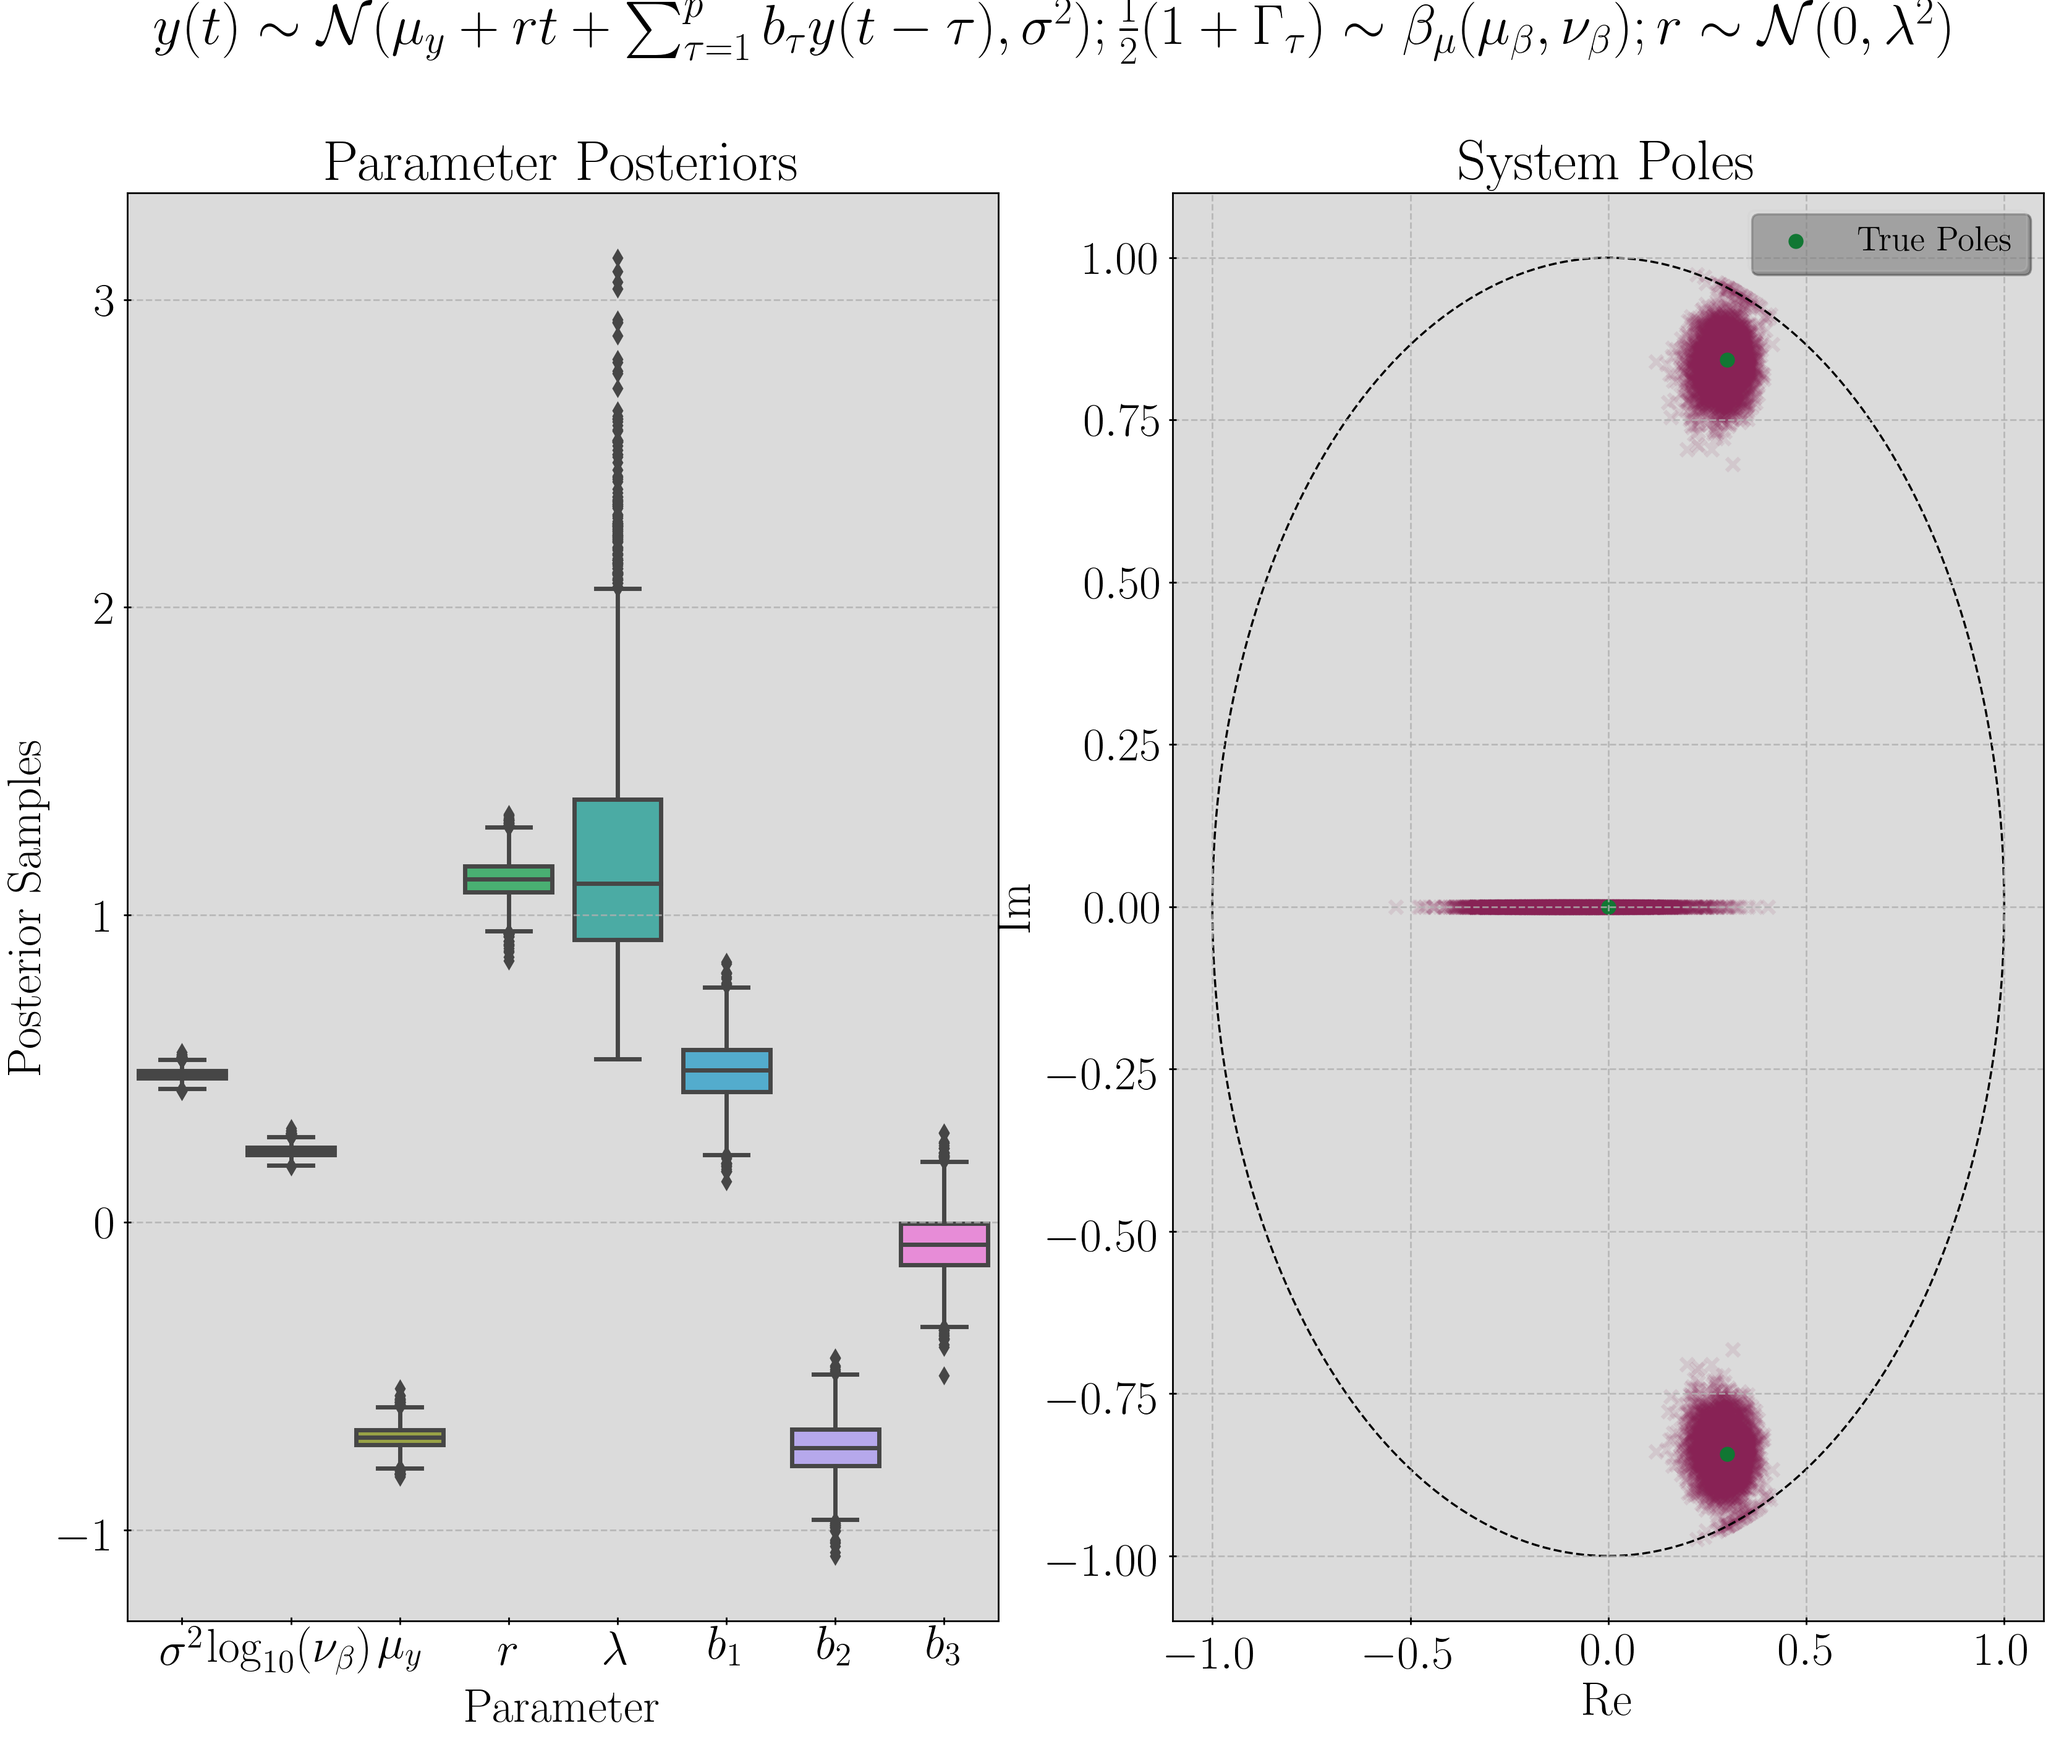
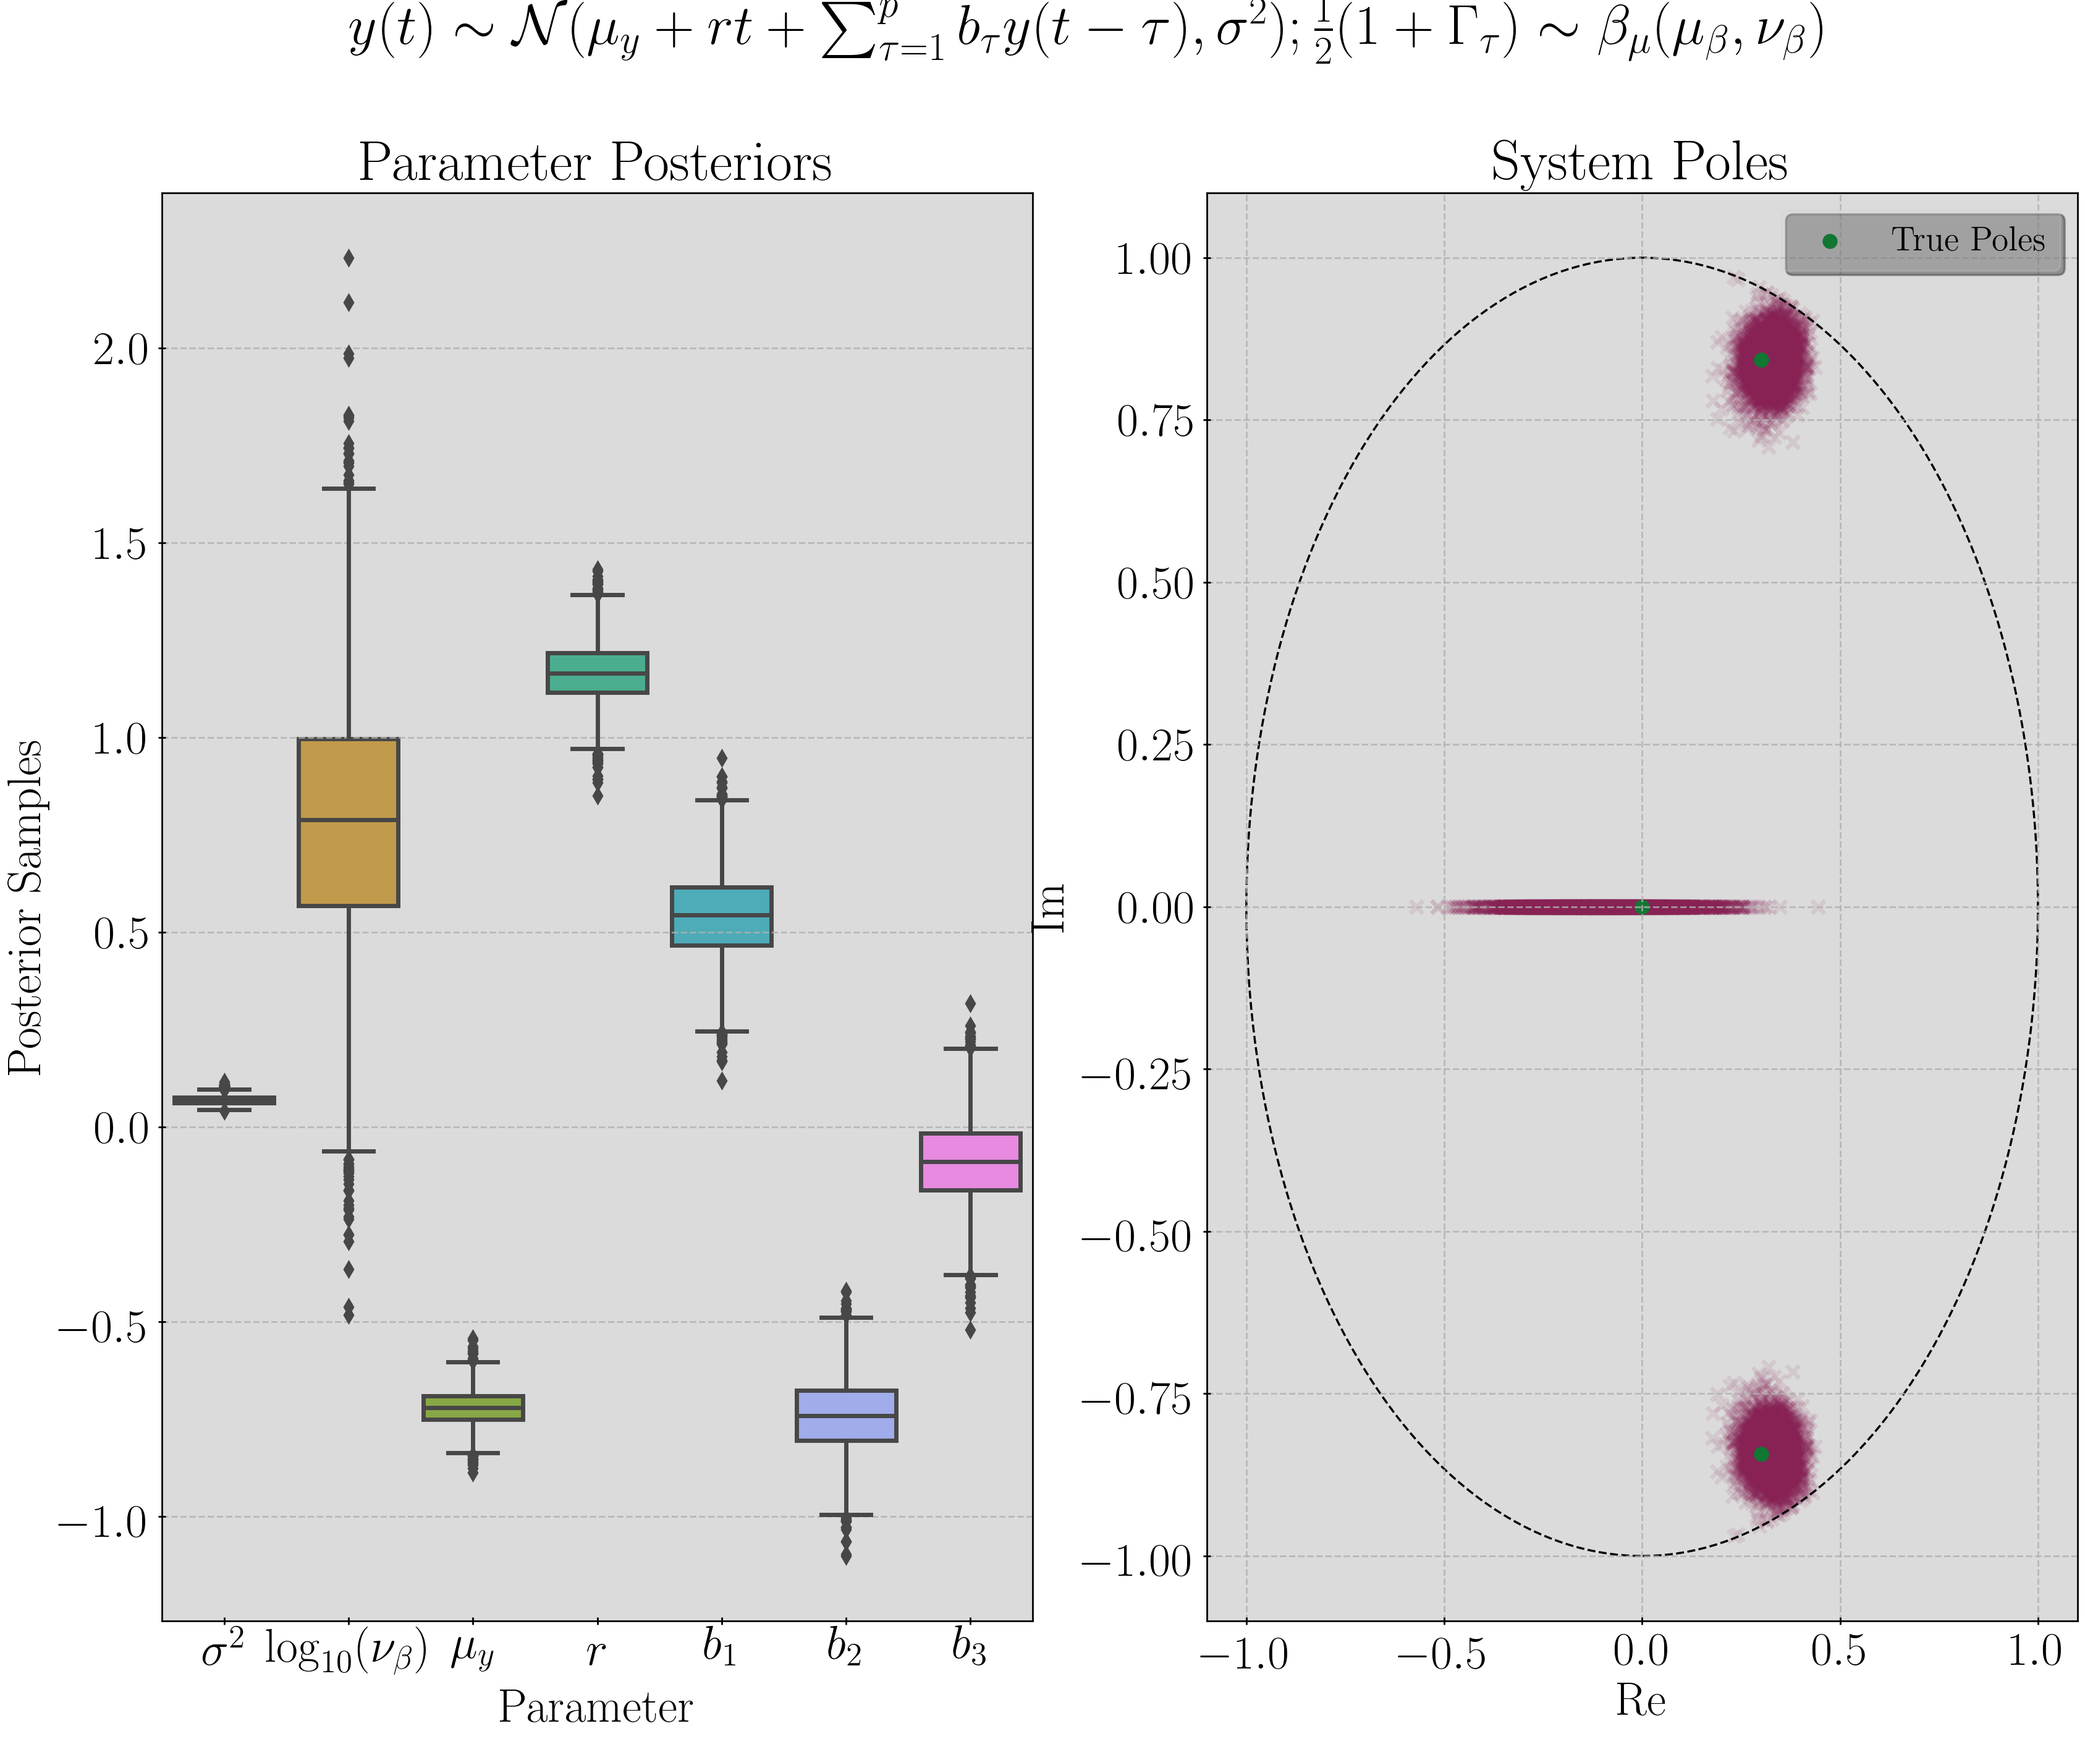
Remove pointless hierarchy on r.

diff --git a/stanlearn/time_series/ar.py b/stanlearn/time_series/ar.py
@@ -1,4 +1,5 @@
 import os
+from itertools import chain
 
 import seaborn as sns
 import matplotlib.pyplot as plt
@@ -66,6 +67,14 @@ class BayesAR(BaseEstimator, RegressorMixin, StanCacheMixin):
 
         fit_kwargs = self._setup_predict_kwargs(data, stan_fitting_kwargs)
         self._fit_results = self.stan_model.sampling(**fit_kwargs)
+
+        def iter_tau(name):
+            return [f"{name}[{tau}]" for tau in range(1, self.p + 1)]
+
+        pars = ["mu", "r", "sigma", "nu_beta"] + list(chain.from_iterable(
+            [iter_tau(name) for name in ["y0", "g_beta", "mu_beta", "g", "b"]]))
+
+        print(self._fit_results.stansummary(pars))
         return
 
     def predict(self, X, ret_posterior=False, **stan_fitting_kwargs):
@@ -132,13 +141,13 @@ class BayesAR(BaseEstimator, RegressorMixin, StanCacheMixin):
 
         roots = self._compute_roots(param_df.loc[:, b_params].to_numpy())
 
-        params = (["sigma", "nu_beta", "mu", "r", "lam"] + b_params)
+        params = (["sigma", "nu_beta", "mu", "r"] + b_params)
         names = (["$\\sigma^2$", "$\\mathrm{log}_{10}(\\nu_\\beta)$",
-                  "$\\mu_y$", "$r$", "$\\lambda$"] + b_params_tex)
+                  "$\\mu_y$", "$r$"] + b_params_tex)
         rename = {frm: to for frm, to in zip(params, names)}
 
         param_df.loc[:, "nu_beta"] = np.log10(param_df.loc[:, "nu_beta"])
-        param_df.loc[:, "nu_beta"] = param_df.loc[:, "sigma"]**2
+        param_df.loc[:, "sigma"] = param_df.loc[:, "sigma"]**2
         param_df = param_df.loc[:, params]\
             .rename(rename, axis=1)
 
@@ -149,8 +158,7 @@ class BayesAR(BaseEstimator, RegressorMixin, StanCacheMixin):
         fig.suptitle("$y(t) \\sim \\mathcal{N}(\\mu_y + rt + "
                      "\\sum_{\\tau = 1}^p b_\\tau y(t - \\tau), \\sigma^2); "
                      "\\frac{1}{2}(1 + \\Gamma_\\tau) \\sim "
-                     "\\beta_\\mu(\\mu_\\beta, \\nu_\\beta); "
-                     "r \\sim \mathcal{N}(0, \\lambda^2)$")
+                     "\\beta_\\mu(\\mu_\\beta, \\nu_\\beta)$")
 
         ax[0].set_title("Parameter Posteriors")
         sns.boxplot(

diff --git a/stanlearn/examples/time_series.py b/stanlearn/examples/time_series.py
@@ -50,7 +50,7 @@ def basic_example():
     fig, axes = ar.plot_posterior_params(show=False)
     axes[1].scatter(true_roots.real, true_roots.imag, marker="o",
                     label="True Poles", color="#117733")
-    axes[1].legend()
+    axes[1].legend(loc="upper right")
     fig.savefig(FIGURE_DIR + "time_series_param_posterior.png")
     fig.savefig(FIGURE_DIR + "time_series_param_posterior.pdf")
     plt.show()
